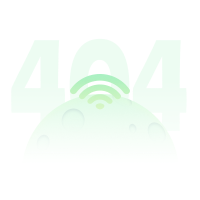
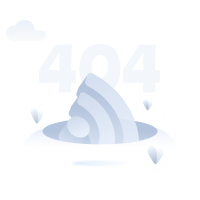
feat: 404页面更换图片

diff --git a/src/views/NotFound.jsx b/src/views/NotFound.jsx
@@ -1,5 +1,5 @@
 import TGHeader from '@/layouts/components/TGHeader'
-import { Button, Layout } from 'ant-design-vue'
+import { Button, Layout, Space } from 'ant-design-vue'
 
 export default {
   name: 'NotFound',
@@ -8,8 +8,10 @@ export default {
       <Layout class={'tg-not-found'}>
         <TGHeader layout="manager" page={'not-found'} />
         <Layout class={'tg-not-found-content'}>
-          <div class={'hint'}>页面走丢了~</div>
-          <Button type={'link'} onClick={() => this.$router.replace('/')}>返回首页</Button>
+          <Space class={'hint'}>
+            <span>页面走丢了~</span>
+            <Button type={'link'} onClick={() => this.$router.replace('/')}>返回首页</Button>
+          </Space>
         </Layout>
       </Layout>
     )

diff --git a/src/assets/styles/index.scss b/src/assets/styles/index.scss
@@ -128,7 +128,7 @@ body {
       min-height: 400px;
       padding-top: 400px;
       font-size: 16px;
-      background: url('../notFound.png') no-repeat center top / auto 100%;
+      background: url('../notFound.png') no-repeat center top / auto 70%;
     }
   }
 }
